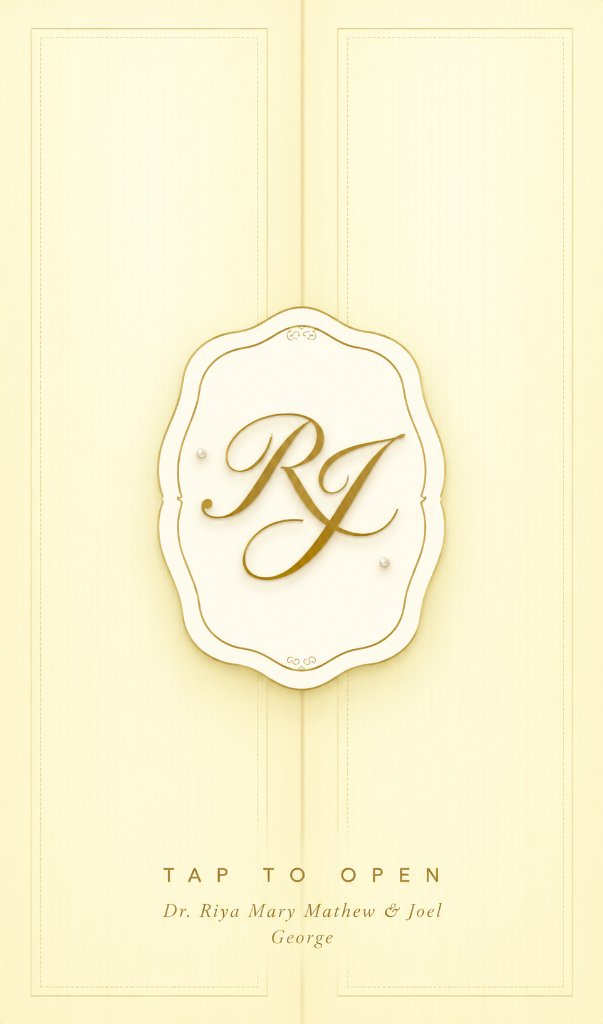
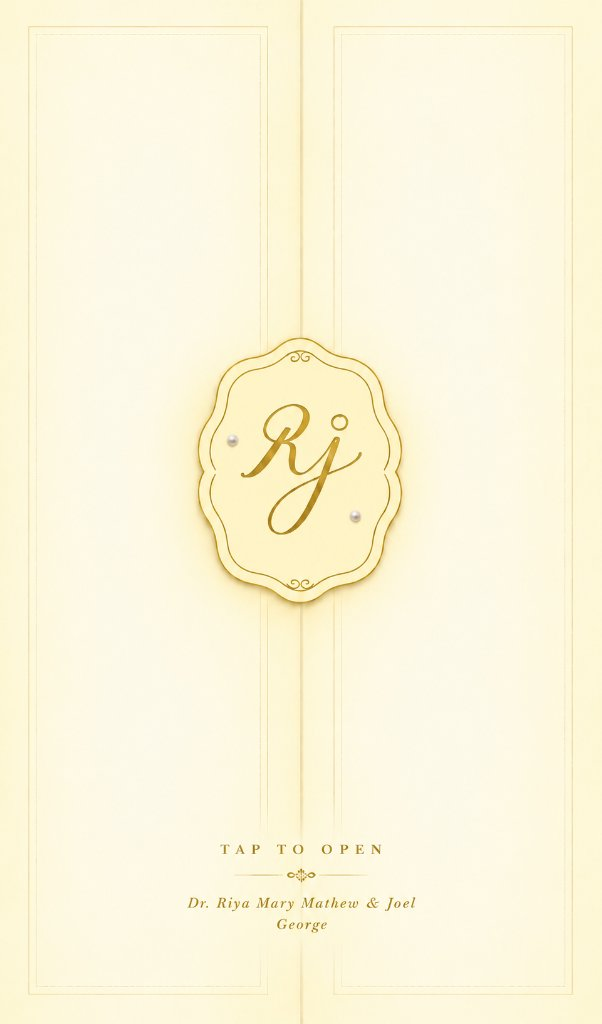
Update opening door cover with new Rj monogram and pearl design

diff --git a/styles.css b/styles.css
@@ -118,7 +118,7 @@ body.doors-locked {
 .door-left {
   left: 0;
   transform-origin: left center;
-  background-image: url('assets/door-left.jpg');
+  background-image: url('assets/door-left.jpg?v=2');
   background-position: right center;
   border-right: 1px solid rgba(196, 164, 78, 0.35);
   box-shadow: inset -6px 0 16px rgba(185, 145, 50, 0.12);
@@ -127,7 +127,7 @@ body.doors-locked {
 .door-right {
   right: 0;
   transform-origin: right center;
-  background-image: url('assets/door-right.jpg');
+  background-image: url('assets/door-right.jpg?v=2');
   background-position: left center;
   box-shadow: inset 6px 0 16px rgba(185, 145, 50, 0.1);
 }

diff --git a/index.html b/index.html
@@ -12,7 +12,7 @@
   <link
     href="https://fonts.googleapis.com/css2?family=Cormorant+Garamond:ital,wght@0,400;0,500;0,600;0,700;1,400;1,500&family=Great+Vibes&family=Pinyon+Script&family=Alex+Brush&family=Plus+Jakarta+Sans:wght@400;500;600&display=swap"
     rel="stylesheet" />
-  <link rel="stylesheet" href="styles.css?v=13" />
+  <link rel="stylesheet" href="styles.css?v=14" />
 </head>
 
 <body class="doors-locked">
